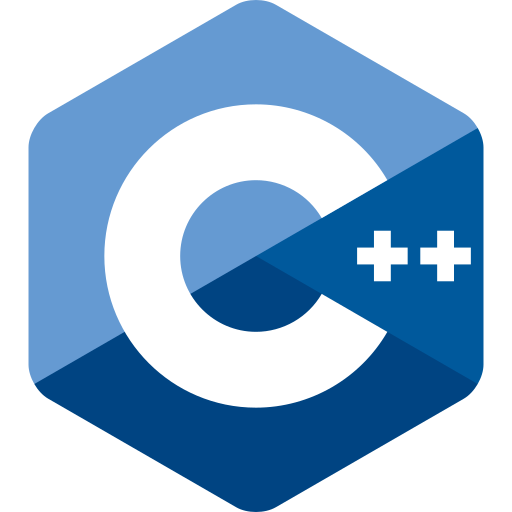
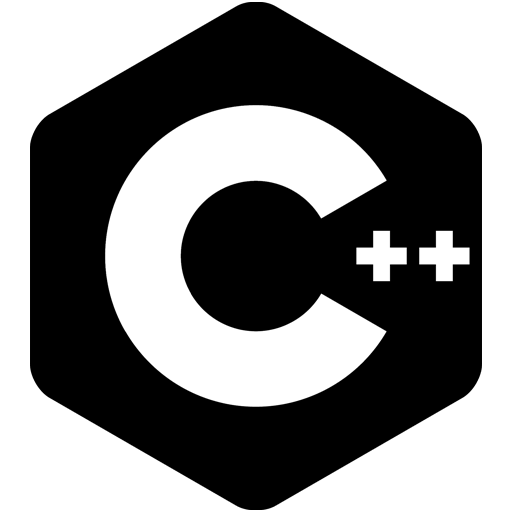
Add files via upload

diff --git a/css/index.css b/css/index.css
@@ -64,14 +64,15 @@ header{
     background: #1b1b1b;
 }
 ::-webkit-scrollbar-thumb {
-    background: #3d0099;
+    background: #0496FF;
     border-radius: 8px;
 }
 ::-webkit-scrollbar-thumb:hover {
-    background: #6600ff; 
+
+    background: #4BB3FD; 
 }
 .logo{
-    color: #6600ff;
+    color: #027BCE;
 }
 .menu ul {
     padding: 0 2em;
@@ -85,8 +86,8 @@ header{
 }
 .menu ul:hover li.menubtn:hover a{
     cursor: pointer;
-    border-bottom:  2px solid #6600ff;
-    color: #6600ff;
+    border-bottom:  2px solid #0496FF;
+    color: #0496FF;
 }
 .mobile{
     display: none;
@@ -105,7 +106,7 @@ a{
     top: 10em;
     width: 50px;
     height: 40px;
-    background-image: linear-gradient(to bottom right, #6600ff,#3d0099);
+    background-image: linear-gradient(to bottom right, #4BB3FD,#0496FF);
     border-top-right-radius: 10px;
     border-bottom-right-radius: 10px;
     transition: 0.5s;
@@ -168,13 +169,14 @@ main{
     align-items: center;
 }
 .home p{
+    color: #e4e7e8;
     font-size: 1.30em;
     text-align: center;
 }
 .home span span p{
     margin: 0;
     font-size: 3em;
-    color: #6600ff;
+    color: #027BCE;
     text-align: center;
 }
 .pres p span{
@@ -204,7 +206,7 @@ main{
     margin: 15px;
     height: 3em;
     width: 6em;
-    border: 2px solid #3d0099 ;
+    border: 2px solid #027BCE ;
     border-radius: 0.25rem;
     background-color: transparent;
     color: #ffffff;
@@ -213,11 +215,12 @@ main{
     background-color: #66666666;
 }
 footer{
-    display: block;
-    justify-content: center;
+    display: flex;
+    flex-direction: column;
+    justify-content: space-around;
     height: 15vh;
     max-width: 100%;
-    background-image: linear-gradient(to bottom right, #6600ff,#3d0099);
+    background-image: linear-gradient(to top right, #4BB3FD,#0496FF);
     color: #ffffff;
     padding: 0.75em;
 }
@@ -226,7 +229,7 @@ footer p {
     justify-content: center;
     margin: 0;
     height: 2em;
-    font-size: 2rem;
+    font-size: 1rem;
 }
 .icons{
     max-width: 100%;
@@ -297,7 +300,7 @@ footer p {
     margin: 15px;
     height: 3em;
     width: 6em;
-    border: 2px solid #3d0099;
+    border: 2px solid #027BCE;
     border-radius: 0.25rem;
     background-color: transparent;
     color: #ffffff;
@@ -341,4 +344,70 @@ footer p {
     flex-direction: column;
     justify-content: center;
     align-items: center;
+}
+
+.skillarea{
+    flex-direction: column;
+}
+.a_top{
+    display: flex;
+    width: 100%;
+    height: 50%;
+    justify-content: space-around;
+    align-items: center;
+}
+.card_a,.card_b{
+    display: flex;
+    flex-direction: column;
+    align-items: center;
+    justify-content: space-around;
+    padding-bottom :1%;
+    width: 30vw;
+    height: 30vh;
+    background-color: #151515;
+    border-radius: 15px;
+    transform: scale(1);
+    transition: 0.75s;
+    
+}
+.img{
+    display: flex;
+    flex-direction: row;
+    align-items: center;
+    justify-content: center;
+}
+.card_a img ,.card_b img{
+    min-width: 25%;
+    width: 25%;
+    transform: scale(0.6);
+    filter: invert(100%);
+}
+.card_a:hover,.card_b:hover{
+    transform: scale(1.1);
+    transition: 0.75s;
+}
+.a_bottom{
+    display: flex;
+    width: 100%;
+    height: 50%;
+    justify-content: space-around;
+    align-items: center;
+}
+
+.progress {
+    background-color: #e4e7e8;
+    width: 40%;
+    border-radius: 15px;
+}
+.bar{
+    background-color: #0496FF;
+    color: white;
+    padding: 1.25%;
+    text-align: right;
+    font-size: 0.75rem;
+    border-radius: 15px;
+}
+.skill p{
+    margin: 0;
+    padding: 0;
 }

diff --git a/index.html b/index.html
@@ -28,7 +28,7 @@
     <title>FelipeDS</title>
 </head>
 
-<body onload="animation();checkCookie()">
+<body onload="animation();checkCookie();logo();">
     <div class="cookiealert" id="lgpd_cookie">
         <p> Para usar este site você concorda que ele utilize cookies, para estatísticas e melhor funcionamento! </p>
         <button onclick="saveCookies(true);">
@@ -96,7 +96,48 @@
         <div id="skills" class="skill">
             <p class="titles">Habilidades</p>
             <div class="skillarea">
-                <p>Fazendo...</p>
+                <div class="a_top">
+                    <div class="card_a">
+                        <p><b>HTML & CSS</b></p>
+                        <div class="img">
+                            <img src="/imgs/html.png" alt="">
+                            <img src="/imgs/css.png" alt="">
+                        </div>
+                        <div class="progress">
+                            <div class="bar " style="width: 85%;">85%</div>
+                        </div>
+                        
+                    </div>
+                    <div class="card_b">
+                        <p><b>JavaScript</b></p>
+                        <div class="img">
+                            <img src="/imgs/js.png" alt="">
+                        </div>
+                        <div class="progress">
+                            <div class="bar" style="width: 75%;">75%</div>
+                        </div>
+                    </div>
+                </div>
+                <div class="a_bottom">
+                    <div class="card_a">
+                        <p><b>C++</b></p>
+                        <div class="img">
+                            <img src="/imgs/cpp.png" alt="">
+                        </div>
+                        <div class="progress">
+                            <div class="bar" style="width: 50%;">50%</div>
+                        </div>
+                    </div>
+                    <div class="card_b">
+                        <p><b>Python</b></p>
+                        <div class="img">
+                            <img src="/imgs/html.png" alt="">
+                        </div>
+                        <div class="progress">
+                            <div class="bar" style="width: 30%;">30%</div>
+                        </div>
+                    </div>
+                </div>
             </div>
         </div>
         <p id="portifolios" class="titles">Projetos</p>
@@ -166,18 +207,17 @@
             </div>
             
         </div>
-    </main>
-    
+    </main> 
     <footer>
-        <p id="contacts">
-            Contatos:
-        </p>
+        
         <div class="icons">
-            <a href="mailto:felpsds@hotmail.com" title="E-mail"><i class="fa-solid fa-envelope fa-xl"></i></a>
             <a href="https://www.github.com/felpsds/" target="_blank" title="GitHub"><i class="fa-brands fa-github fa-xl"></i></a>
             <a href="https://br.linkedin.com/in/felpsds" target="_blank" title="LinkedIn"><i class="fa-brands fa-linkedin fa-xl"></i></a>
             <a href="https://instagram.com/felpsds" target="_blank" title="Instagram"><i class="fa-brands fa-instagram fa-xl"></i></a>
         </div>
+        <p id="contacts">
+            Criado e desenhado por @felpsds
+        </p>
     </footer>
 </body>
 </html>

diff --git a/css/responsive.css b/css/responsive.css
@@ -151,4 +151,70 @@
         transform: scale(1);
         transition: 0s;
     }
+
+
+    .a_top{
+        display: flex;
+        width: 100%;
+        height: 50%;
+        flex-direction: column;
+        justify-content: space-around;
+        align-items: center;
+    }
+    .card_a,.card_b{
+        display: flex;
+        flex-direction: column;
+        align-items: center;
+        justify-content: space-around;
+        padding-bottom :1%;
+        width: 60vw;
+        height: 22vh;
+        background-color: #151515;
+        border-radius: 15px;
+        transform: scale(1);
+        transition: 0.75s;
+        
+    }
+    .img{
+        display: flex;
+        flex-direction: row;
+        align-items: center;
+        justify-content: center;
+    }
+    .card_a img ,.card_b img{
+        min-width: 25%;
+        width: 25%;
+        transform: scale(0.6);
+        filter: invert(100%);
+    }
+    .card_a:hover,.card_b:hover{
+        transform: scale(1.1);
+        transition: 0.75s;
+    }
+    .a_bottom{
+        display: flex;
+        width: 100%;
+        height: 50%;
+        flex-direction: column;
+        justify-content: space-around;
+        align-items: center;
+    }
+    
+    .progress {
+        background-color: #e4e7e8;
+        width: 40%;
+        border-radius: 15px;
+    }
+    .bar{
+        background-color: #0496FF;
+        color: white;
+        padding: 1.25%;
+        text-align: right;
+        font-size: 0.75rem;
+        border-radius: 15px;
+    }
+    .skill p{
+        margin: 0;
+        padding: 0;
+    }
 }

diff --git a/JS/index.js b/JS/index.js
@@ -105,4 +105,21 @@ function getCookie(cname) {
     }
     return "";
 }
+async function logo(){
+    cont = true;
+    logo = document.querySelector(".logo b").innerText;
+    while(true){
+        await sleep(750);
+        
+        console.log(logo)
+        if(cont == true){
+           logop = logo + " |"
+           document.querySelector(".logo b").innerText = logop;
+           cont = false
+        }else{
+            document.querySelector(".logo b").innerText = logo;
+            cont = true;
+        }
+    }
+}
 
